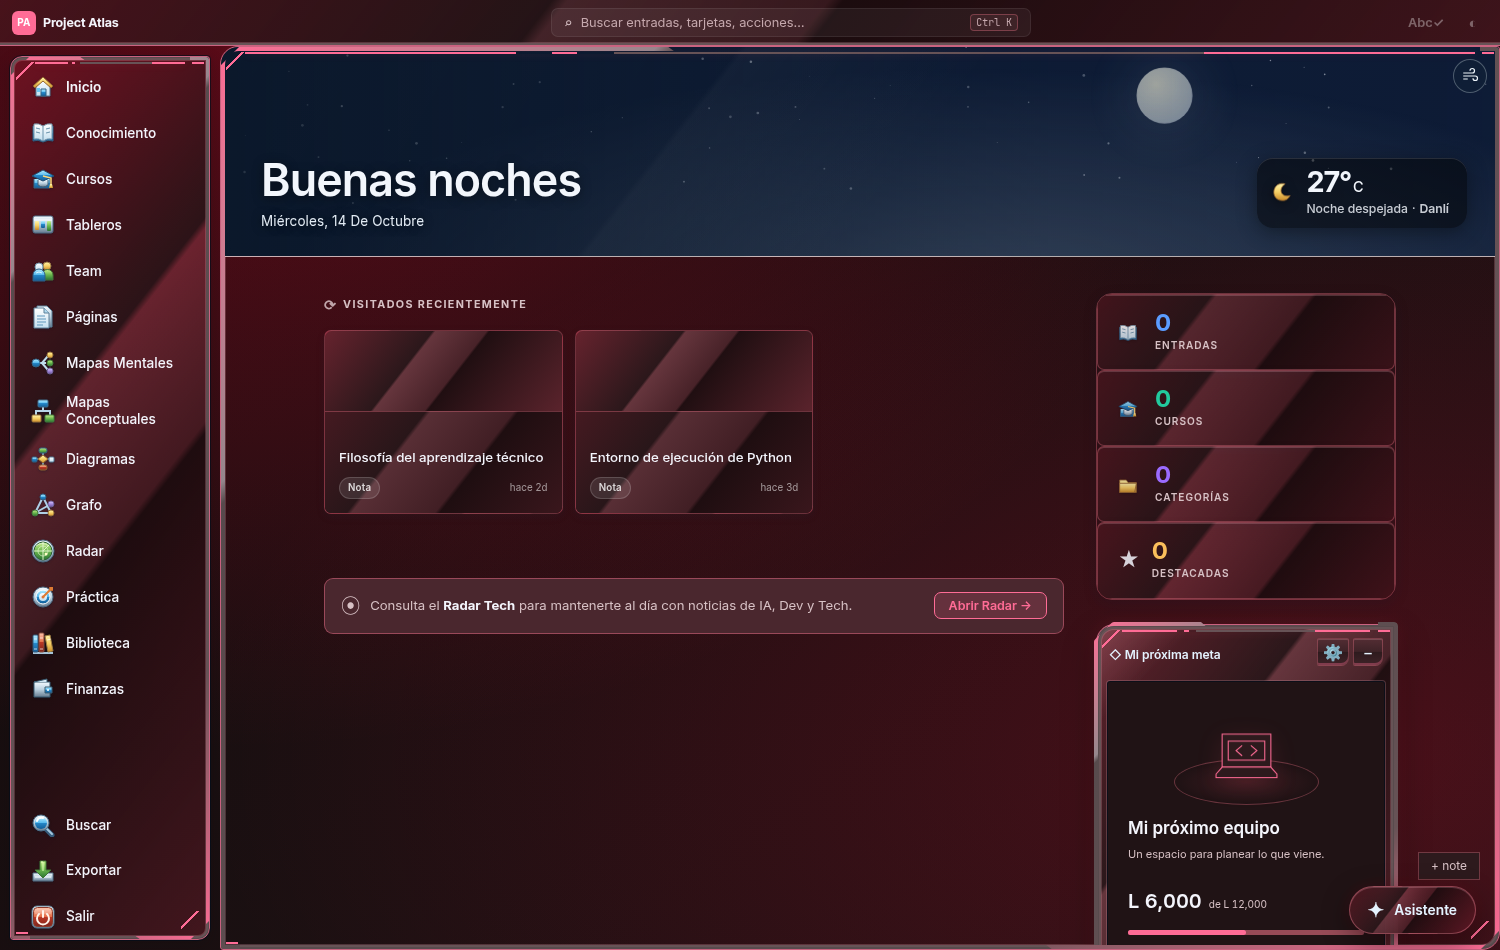
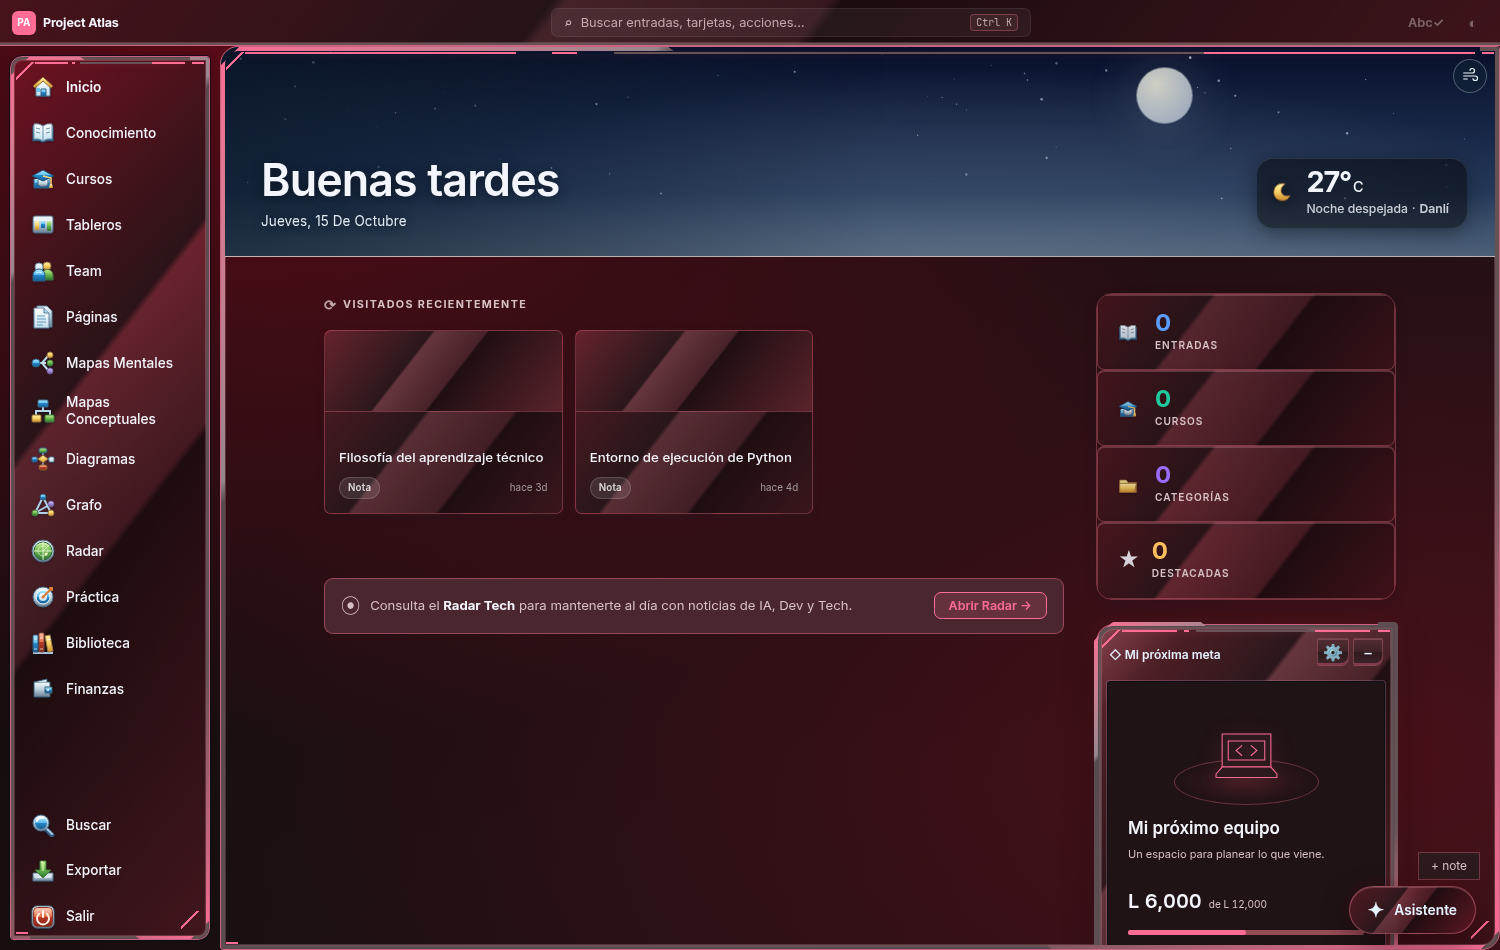
Give weather sky layered shaded clouds and horizon light

Changed region(s): [[0.1533, 0.0611, 1.0, 0.2747]]

diff --git a/knowledge_base/static/weather-hero.js b/knowledge_base/static/weather-hero.js
@@ -26,7 +26,60 @@
     }
     let width=1,height=1,dpr=1,raf=0,last=0,time=0,visible=false,disposed=false;
     const small=()=>innerWidth<768;
-    const clouds=Array.from({length:kind==='clear'?2:7},(_,i)=>({x:kind==='clear'?(i+.8)/3:i/7,y:.12+(i%3)*.13,size:.14+(i%4)*.035}));
+    // Paint shaded cloud silhouettes once, then move the cached layers.
+    // Their scalloped tops and flat, dark bases distinguish clouds from fog.
+    function cloudSprite(index){
+      const sprite=document.createElement('canvas');sprite.width=640;sprite.height=240;
+      const c=sprite.getContext('2d'), storm=['rain','thunderstorm','overcast','snow'].includes(kind);
+      const shape=new Path2D();
+      shape.moveTo(35,175);
+      shape.bezierCurveTo(3,150,30,116,74,123);
+      shape.bezierCurveTo(53,77,106,49,155,76);
+      shape.bezierCurveTo(170,15,245,7,282,56);
+      shape.bezierCurveTo(312,24,372,43,381,83);
+      shape.bezierCurveTo(419,51,479,72,484,114);
+      shape.bezierCurveTo(547,87,588,119,572,147);
+      shape.bezierCurveTo(628,138,646,180,601,191);
+      shape.bezierCurveTo(492,218,147,218,35,175);shape.closePath();
+      c.save();c.filter=`blur(${index%2?4:2}px)`;
+      const base=c.createLinearGradient(0,20,0,225);
+      const colors=night?['#8c9aaf','#4a5c77','#26384f']:storm?['#e2e8ea','#a2b2bd','#556f83']:['#fffdf5','#e7f0f5','#a8c3d7'];
+      colors.forEach((color,i)=>base.addColorStop(i/2,color));
+      c.fillStyle=base;c.fill(shape);c.restore();
+      c.save();c.clip(shape);
+      // Unequal light pockets give the shared silhouette an illuminated crown.
+      for(let j=0;j<6;j++){
+        const x=90+j*85,y=75+Math.sin(j*2+index)*24;
+        const light=c.createRadialGradient(x,y,2,x,y,87);
+        light.addColorStop(0,`rgba(255,251,237,${night?.08:storm?.18:.35})`);
+        light.addColorStop(1,'rgba(255,251,237,0)');c.fillStyle=light;c.fillRect(0,0,640,240);
+      }
+      // Low-frequency vapour texture breaks up the otherwise polished surface.
+      const texture=document.createElement('canvas');texture.width=160;texture.height=60;
+      const t=texture.getContext('2d'), pixels=t.createImageData(160,60);
+      const noise=(x,y)=>{
+        const n=Math.sin(x*127.1+y*311.7+index*73.9)*43758.5453;
+        return n-Math.floor(n);
+      };
+      const smooth=(x,y,step)=>{
+        const gx=Math.floor(x/step),gy=Math.floor(y/step);
+        let u=x/step-gx,v=y/step-gy;u=u*u*(3-2*u);v=v*v*(3-2*v);
+        return (noise(gx,gy)*(1-u)+noise(gx+1,gy)*u)*(1-v)
+          +(noise(gx,gy+1)*(1-u)+noise(gx+1,gy+1)*u)*v;
+      };
+      for(let y=0;y<60;y++)for(let x=0;x<160;x++){
+        const n=smooth(x,y,16)*.55+smooth(x,y,7)*.3+smooth(x,y,3)*.15;
+        const offset=(y*160+x)*4,shade=n>.5?255:25;
+        pixels.data[offset]=shade;pixels.data[offset+1]=shade;pixels.data[offset+2]=shade;
+        pixels.data[offset+3]=Math.abs(n-.5)*130;
+      }
+      t.putImageData(pixels,0,0);c.drawImage(texture,0,0,640,240);
+      c.restore();return sprite;
+    }
+    const clouds=Array.from({length:kind==='clear'?2:9},(_,i)=>({
+      x:(i*.37)%1.5-.25,y:[-.28,.04,.38][i%3],
+      scale:kind==='clear'?.35:[.68,1,.48][i%3],opacity:kind==='clear'?.42:[.65,.94,.44][i%3],sprite:cloudSprite(i)
+    }));
     const stars=Array.from({length:60},()=>({x:Math.random(),y:Math.random()*.75,r:.4+Math.random(),phase:Math.random()*6}));
     const drops=Array.from({length:100},()=>({x:Math.random(),y:Math.random(),speed:.5+Math.random()*.6,len:7+Math.random()*12}));
     function draw(){
@@ -38,16 +91,17 @@
         });
       }
       if(kind!=='clear' || !night){
-        clouds.slice(0,small()?4:7).forEach((p,i)=>{
-          const x=((p.x+time*(.003+i*.00025))%1.5-.25)*width, y=p.y*height;
-          const size=Math.max(65,p.size*width);
-          const fog=kind==='foggy';
-          ctx.save();ctx.translate(x,y);ctx.scale(1,fog?.3:.42);
-          const g=ctx.createRadialGradient(0,0,0,0,0,size);
-          const alpha=night?.18:kind==='clear'?.3:.55;
-          g.addColorStop(0,`rgba(${night?'143,164,193':'244,247,247'},${alpha})`);
-          g.addColorStop(1,'rgba(220,232,240,0)');ctx.fillStyle=g;
-          ctx.beginPath();ctx.ellipse(0,0,size,size,0,0,Math.PI*2);ctx.fill();ctx.restore();
+        clouds.forEach((p,i)=>{
+          const span=Math.max(small()?310:470,width*.48)*p.scale;
+          const travel=width+span*2;
+          const x=((p.x*width+span+time*(3+i*.35))%travel+travel)%travel-span;
+          const y=p.y*height;
+          ctx.save();ctx.globalAlpha=p.opacity;
+          if(kind==='foggy'){
+            ctx.globalAlpha=.22;ctx.filter='blur(16px)';
+            ctx.drawImage(p.sprite,x,y,span*1.7,span*.24);
+          }else ctx.drawImage(p.sprite,x,y,span,span*.375);
+          ctx.restore();
         });
       }
       if(['rain','thunderstorm','snow'].includes(kind)){

diff --git a/knowledge_base/static/weather-hero.css b/knowledge_base/static/weather-hero.css
@@ -1,19 +1,19 @@
 /* A sky behind the greeting, inside the original Aero/Centinela frame. */
 :root #homeHero[data-weather-scene] { isolation:isolate; overflow:hidden !important; background:var(--aero-hero,var(--bg-elevated)) !important; }
-.weather-scene { position:absolute; inset:0; z-index:0; pointer-events:none; background-color:#538cbb; transition:background-color 1.8s ease; }
-[data-weather-scene$="night"] .weather-scene { background-color:#101e3b; }
-[data-weather-scene^="overcast"] .weather-scene { background-color:#697d8d; }
-[data-weather-scene^="foggy"] .weather-scene { background-color:#8b9caa; }
-[data-weather-scene^="rain"] .weather-scene { background-color:#415b73; }
-[data-weather-scene^="thunderstorm"] .weather-scene { background-color:#303d59; }
-[data-weather-scene^="snow"] .weather-scene { background-color:#899dae; }
-[data-weather-scene$="night"]:not([data-weather-scene^="clear"]):not([data-weather-scene^="partly"]) .weather-scene { background-color:#243143; }
+.weather-scene { position:absolute; inset:0; z-index:0; pointer-events:none; background-color:#538cbb; background-image:linear-gradient(180deg,#125a9c 0%,#559ecb 50%,#bad9e5 100%); transition:background-color 1.8s ease; }
+[data-weather-scene$="night"] .weather-scene { background-color:#101e3b; background-image:linear-gradient(180deg,#080f29,#24395d 70%,#5c718d); }
+[data-weather-scene^="overcast"] .weather-scene { background-color:#697d8d; background-image:linear-gradient(180deg,#536a80,#a4bac8); }
+[data-weather-scene^="foggy"] .weather-scene { background-color:#8b9caa; background-image:linear-gradient(180deg,#8197a9,#c2ced3); }
+[data-weather-scene^="rain"] .weather-scene { background-color:#415b73; background-image:linear-gradient(180deg,#2f4a64,#789aac 65%,#bacbd0); }
+[data-weather-scene^="thunderstorm"] .weather-scene { background-color:#303d59; background-image:linear-gradient(180deg,#202e45,#5d768c); }
+[data-weather-scene^="snow"] .weather-scene { background-color:#899dae; background-image:linear-gradient(180deg,#6d899f,#cedde4); }
+[data-weather-scene$="night"]:not([data-weather-scene^="clear"]):not([data-weather-scene^="partly"]) .weather-scene { background-color:#243143; background-image:linear-gradient(180deg,#101d30,#344d65); }
 .weather-orb { position:absolute; width:88px; height:88px; right:24%; top:10%; border-radius:50%; opacity:0; transition:opacity 1.8s ease; background:radial-gradient(circle at 40% 35%,#fffce4,#ffe2a0 65%,#f7c874); box-shadow:0 0 50px 25px #ffebad26,0 0 120px 55px #ffdf9c15; }
 [data-weather-scene^="clear"] .weather-orb,[data-weather-scene^="partly"] .weather-orb { opacity:.8; }
 [data-weather-scene$="night"] .weather-orb { width:55px; height:55px; background:radial-gradient(circle at 35% 30%,#f5f3df,#aab9cf); box-shadow:0 0 45px 18px #bfcfe51c; }
 .weather-atmosphere { position:absolute; inset:0; background:linear-gradient(120deg,#ffffff08,transparent 55%),radial-gradient(ellipse at 60% 120%,#cedee743,transparent 65%); }
 :root #homeHero[data-weather-scene] > .home-hero-canvas { display:block !important; position:absolute; inset:0; z-index:1; pointer-events:none; width:100%; height:100%; }
-:root #homeHero[data-weather-scene]::before { z-index:2; opacity:1 !important; pointer-events:none; background:linear-gradient(90deg,#071423b8,#07142340 65%,#07142333),linear-gradient(128deg,transparent 36%,#ffffff0d 36.5%,transparent 54%) !important; }
+:root #homeHero[data-weather-scene]::before { z-index:2; opacity:1 !important; pointer-events:none; background:linear-gradient(90deg,#07142399,transparent 52%),linear-gradient(0deg,#07142340,transparent 65%) !important; }
 :root #homeHero[data-weather-scene] .home-greeting { color:#f2f6fc !important; text-shadow:0 2px 12px #0007 !important; }
 :root #homeHero[data-weather-scene] .home-date { color:#e2ebf4 !important; }
 :root #homeHero[data-weather-scene] .home-weather-chip { z-index:3; color:#f2f6fc; }

diff --git a/docs/HOME_WEATHER.md b/docs/HOME_WEATHER.md
@@ -10,6 +10,13 @@ usa un resplandor lento y tenue, sin relámpagos ni flashes de pantalla. El ciel
 cambia de color gradualmente y el texto mantiene contraste claro sobre una
 capa oscura. Sin datos meteorológicos queda el fondo normal del tema.
 
+El cielo usa un degradado vertical y bancos de nubes con silueta, iluminación,
+sombras inferiores y textura de vapor. Las capas tienen distintos tamaños,
+opacidades y velocidades para dar profundidad. Las nubes se pintan una sola
+vez en superficies auxiliares y se reutilizan durante la animación; no se
+genera textura por fotograma. El sombreado del saludo se concentra a la
+izquierda para conservar los detalles del cielo.
+
 El botón circular de viento en la esquina del encabezado permite pausar o
 activar el movimiento. La preferencia se guarda localmente. Se respeta el
 movimiento reducido del sistema, mostrando una escena estática y explicándolo
